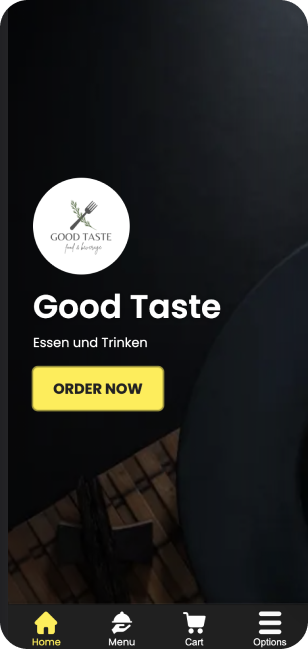
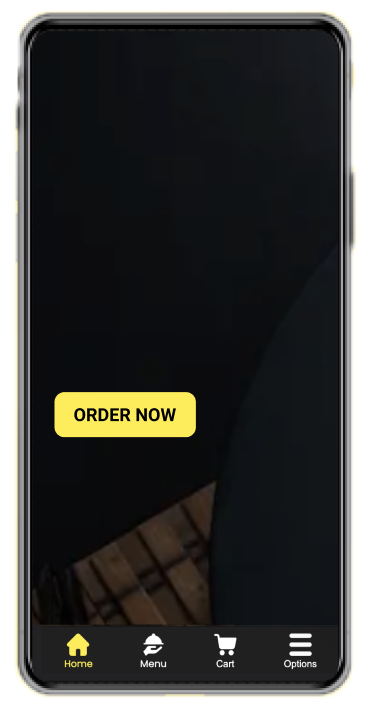
added: mobile frame store info

diff --git a/components/templateOne/pages/index/app-section.index.template-one.compnent.tsx b/components/templateOne/pages/index/app-section.index.template-one.compnent.tsx
@@ -4,6 +4,9 @@ import { useTranslation } from 'react-i18next';
 import styled from 'styled-components';
 import { BREAKPOINTS } from '../../../../constants/grid-system-configuration';
 import AppButtons from '../../common/appButtons/app-buttons.common.templateOne.components';
+import { useAppSelector } from '../../../../redux/hooks.redux';
+import { selectShop } from '../../../../redux/slices/index.slices.redux';
+import { selectLanguage } from '../../../../redux/slices/configuration.slices.redux';
 
 const WrapperContainer = styled.div`
   display: flex;
@@ -66,6 +69,7 @@ const Summary = styled.p`
 `;
 
 const ImageSection = styled.div`
+  position: relative;
   display: flex;
   justify-content: center;
 
@@ -75,6 +79,7 @@ const ImageSection = styled.div`
 `;
 
 const Image = styled.img`
+  position: relative;
   height: 100%;
 
   @media (max-width: ${BREAKPOINTS.lg}px) {
@@ -83,13 +88,114 @@ const Image = styled.img`
   }
 `;
 
+const ShopTitle = styled.h1`
+  font-size: 24px;
+  margin: 0;
+  padding: 0;
+  width: 80%;
+  color: #fff;
+  @media (max-width: ${BREAKPOINTS.lg}px) {
+    font-size: 32px;
+  }
+  @media (max-width: ${BREAKPOINTS.md}px) {
+    font-size: 28px;
+  }
+  @media (max-width: ${BREAKPOINTS.sm}px) {
+    font-weight: 600;
+    font-size: 24px;
+  }
+  @media (max-width: ${BREAKPOINTS.xs}px) {
+    font-size: 14px;
+  }
+`;
+
+const ShopSubTitle = styled.h2`
+  padding: 0;
+  margin: 0;
+  font-size: 20px;
+  color: #fff;
+  @media (max-width: ${BREAKPOINTS.lg}px) {
+    font-size: 28px;
+  }
+  @media (max-width: ${BREAKPOINTS.md}px) {
+    font-size: 18px;
+  }
+  @media (max-width: ${BREAKPOINTS.sm}px) {
+    padding-top: 0.5rem;
+    font-weight: 400;
+    font-size: 20px;
+  }
+  @media (max-width: ${BREAKPOINTS.xs}px) {
+    font-size: 12px;
+  }
+`;
+
+const LogoLink = styled.a`
+  height: 120px;
+  width: 120px;
+  @media (max-width: ${BREAKPOINTS.sm}px) {
+    height: 60px;
+    width: 60px;
+  }
+  border-radius: 50%;
+  background-color: white;
+  overflow: hidden;
+  margin-bottom: 1em;
+  display: grid;
+  place-items: center;
+`;
+
+const Logo = styled.img`
+  width: 100%;
+  height: 100%;
+`;
+
+const ShopInfo = styled.div`
+  position: absolute;
+  top: 20%;
+  left: 30%;
+  max-width: 50%;
+  @media (min-width: ${BREAKPOINTS.xxl}px) {
+    left: 35%;
+  }
+  @media (max-width: ${BREAKPOINTS.xxl}px) {
+    left: 30%;
+  }
+  @media (max-width: ${BREAKPOINTS.lg}px) {
+    left: 25%;
+  }
+  @media (max-width: ${BREAKPOINTS.md}px) {
+    left: 25%;
+    top: 20%;
+  }
+  @media (max-width: ${BREAKPOINTS.sm}px) {
+    left: 25%;
+    top: 20%;
+  }
+  @media (max-width: ${BREAKPOINTS.xs}px) {
+    left: 25%;
+    top: 15%;
+  }
+`;
+
 const AppSection: FunctionComponent = () => {
   const { t } = useTranslation('page-index');
+  const shopData = useAppSelector(selectShop);
+  const language = useAppSelector(selectLanguage);
 
   return (
     <WrapperContainer>
       <ImageSection>
         <Image src="assets/png/mobile-frame.png" />
+
+        <ShopInfo>
+          <LogoLink onClick={() => alert('clicked')} href="#">
+            {!!shopData?.logo && <Logo src={shopData?.logo} loading="lazy" />}
+          </LogoLink>
+
+          <ShopTitle>{shopData?.name}</ShopTitle>
+          <ShopSubTitle>{shopData?.category_json[language]}</ShopSubTitle>
+        </ShopInfo>
       </ImageSection>
       <Container>
         <Row>

diff --git a/constants/grid-system-configuration.ts b/constants/grid-system-configuration.ts
@@ -1,4 +1,5 @@
 const BREAKPOINTS = {
+  "xs": 450,
   "sm": 540,
   "md": 740,
   "lg": 960,
